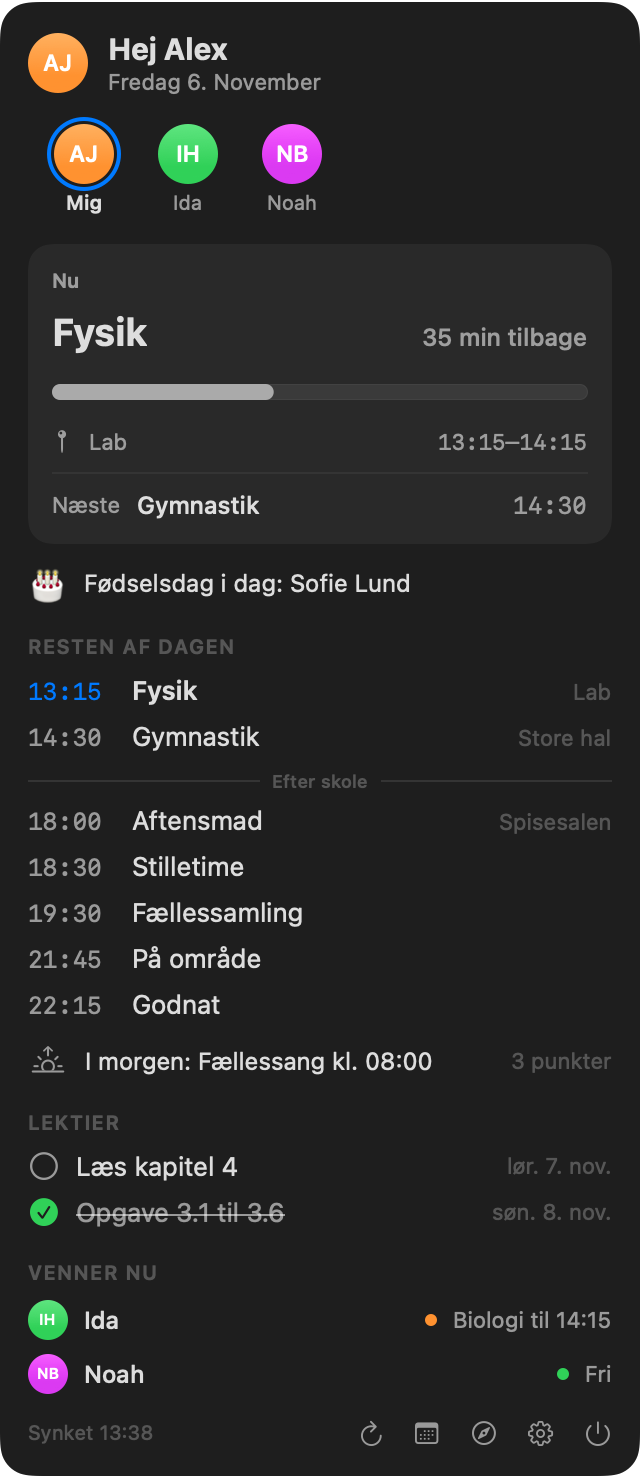
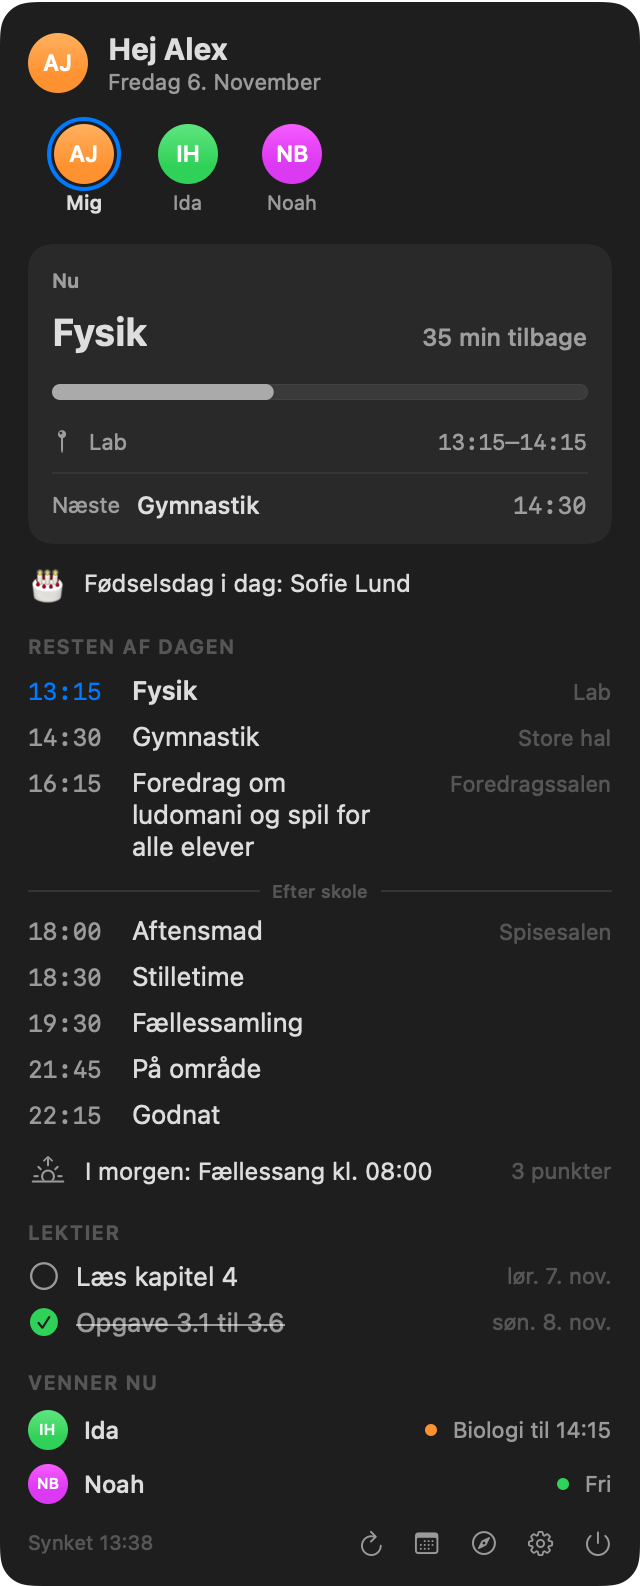
Version 1.1.1: uge-overblik som rigtigt skema efter klokken, og lange navne kan læses

diff --git a/Sources/Features.swift b/Sources/Features.swift
@@ -197,65 +197,184 @@ struct WeekView: View {
             }
             .padding(.horizontal, 20).padding(.top, 34).padding(.bottom, 14)
 
-            HStack(alignment: .top, spacing: 10) {
-                ForEach(shown, id: \.self) { d in
-                    DayColumn(day: d, items: dayItems(d),
-                              homework: homework.filter { DateUtil.cal.isDate($0.due, inSameDayAs: d) })
-                }
-            }
-            .padding(.horizontal, 16).padding(.bottom, 16)
+            WeekGrid(days: shown, items: dayItems,
+                     homework: { d in homework.filter { DateUtil.cal.isDate($0.due, inSameDayAs: d) } })
+                .padding(.horizontal, 12).padding(.bottom, 12)
         }
-        .frame(minWidth: 860, maxWidth: .infinity, minHeight: 520, maxHeight: .infinity, alignment: .top)
+        .frame(minWidth: 860, maxWidth: .infinity, minHeight: 560, maxHeight: .infinity, alignment: .top)
         .background(Color(nsColor: .windowBackgroundColor).ignoresSafeArea())
     }
 }
 
-struct DayColumn: View {
-    let day: Date
-    let items: [ViggoEvent]
-    let homework: [Homework]
+/// Hours down the side, a column per day, and each lesson as tall as it lasts, like on Viggo.
+struct WeekGrid: View {
+    let days: [Date]
+    let items: (Date) -> [ViggoEvent]
+    let homework: (Date) -> [Homework]
+    var hourHeight: CGFloat = 52
+    private let gutter: CGFloat = 44
+
+    private var hours: ClosedRange<Int> {
+        let all = days.flatMap(items)
+        let first = all.map { DateUtil.cal.component(.hour, from: $0.start) }.min() ?? 8
+        let last = all.map { e -> Int in
+            let sameDay = DateUtil.cal.isDate(e.end, inSameDayAs: e.start)
+            let h = DateUtil.cal.component(.hour, from: e.end), m = DateUtil.cal.component(.minute, from: e.end)
+            return sameDay ? h + (m > 0 ? 1 : 0) : 24
+        }.max() ?? 16
+        return min(first, 8)...max(min(last, 24), 16)
+    }
 
     var body: some View {
-        let today = DateUtil.cal.isDateInToday(day)
-        VStack(alignment: .leading, spacing: 6) {
-            HStack(alignment: .firstTextBaseline, spacing: 5) {
-                Text(DateUtil.weekdayF.string(from: day).capitalized).font(.system(size: 13, weight: .semibold))
-                Text("\(DateUtil.cal.component(.day, from: day)).").font(.system(size: 13))
-                    .foregroundStyle(today ? Color.white : .secondary)
-                    .padding(.horizontal, today ? 6 : 0).padding(.vertical, today ? 1 : 0)
-                    .background(Capsule().fill(today ? Color.accentColor : .clear))
-            }
-            .padding(.bottom, 2)
-            ForEach(homework) { h in
-                Label(h.title, systemImage: h.done ? "checkmark.circle.fill" : "book.closed")
-                    .font(.system(size: 11)).foregroundStyle(h.done ? .secondary : .primary).lineLimit(2)
-            }
-            if items.isEmpty {
-                Text("Fri").font(.system(size: 12)).foregroundStyle(.tertiary)
-            }
-            ForEach(items) { e in
-                let tint = e.customColor ?? .accentColor
-                VStack(alignment: .leading, spacing: 2) {
-                    Text("\(DateUtil.hm(e.start))–\(DateUtil.hm(e.end))")
-                        .font(.system(size: 10, design: .monospaced)).foregroundStyle(.secondary)
-                    Text(e.shortTitle).font(.system(size: 12, weight: .semibold)).lineLimit(2)
-                    if !e.room.isEmpty { Text(e.room).font(.system(size: 10)).foregroundStyle(.secondary).lineLimit(1) }
+        let h = hours
+        VStack(spacing: 0) {
+            // Day names and homework
+            HStack(alignment: .top, spacing: 6) {
+                Color.clear.frame(width: gutter, height: 1)
+                ForEach(days, id: \.self) { d in
+                    let today = DateUtil.cal.isDateInToday(d)
+                    VStack(alignment: .leading, spacing: 4) {
+                        HStack(alignment: .firstTextBaseline, spacing: 5) {
+                            Text(DateUtil.weekdayF.string(from: d).capitalized).font(.system(size: 13, weight: .semibold))
+                            Text("\(DateUtil.cal.component(.day, from: d)).").font(.system(size: 13))
+                                .foregroundStyle(today ? Color.white : .secondary)
+                                .padding(.horizontal, today ? 6 : 0).padding(.vertical, today ? 1 : 0)
+                                .background(Capsule().fill(today ? Color.accentColor : .clear))
+                        }
+                        ForEach(homework(d)) { hw in
+                            Label(hw.title, systemImage: hw.done ? "checkmark.circle.fill" : "book.closed")
+                                .font(.system(size: 11)).foregroundStyle(hw.done ? .secondary : .primary).lineLimit(2)
+                        }
+                    }
+                    .frame(maxWidth: .infinity, alignment: .leading)
+                    .padding(.horizontal, 6).padding(.bottom, 6)
                 }
-                .padding(7)
-                .frame(maxWidth: .infinity, alignment: .leading)
-                .background(RoundedRectangle(cornerRadius: 8, style: .continuous).fill(tint.opacity(0.18)))
-                .overlay(alignment: .leading) {
-                    RoundedRectangle(cornerRadius: 2).fill(tint).frame(width: 3).padding(.vertical, 5)
+            }
+            Divider()
+            ScrollView(.vertical) {
+                HStack(alignment: .top, spacing: 6) {
+                    // Hour labels
+                    VStack(alignment: .trailing, spacing: 0) {
+                        ForEach(Array(h), id: \.self) { hr in
+                            Text(String(format: "%02d:00", hr)).font(.system(size: 10, design: .monospaced))
+                                .foregroundStyle(.tertiary)
+                                .frame(height: hourHeight, alignment: .top)
+                                .offset(y: -6)
+                        }
+                    }
+                    .frame(width: gutter, alignment: .trailing)
+                    ForEach(days, id: \.self) { d in
+                        DayGridColumn(day: d, items: items(d), hours: h, hourHeight: hourHeight)
+                    }
                 }
-                .opacity(e.end < Date() ? 0.5 : 1)
-                .contentShape(Rectangle())
-                .onTapGesture { NSWorkspace.shared.open(e.link) }
+                .padding(.top, 8)
             }
         }
-        .frame(maxWidth: .infinity, alignment: .topLeading)
-        .padding(10)
-        .background(RoundedRectangle(cornerRadius: 12, style: .continuous)
-            .fill(today ? Color.accentColor.opacity(0.07) : Color.primary.opacity(0.04)))
+    }
+}
+
+struct DayGridColumn: View {
+    let day: Date
+    let items: [ViggoEvent]
+    let hours: ClosedRange<Int>
+    let hourHeight: CGFloat
+
+    private var top: Date { DateUtil.cal.date(bySettingHour: hours.lowerBound, minute: 0, second: 0, of: day)! }
+    private var bottom: Date {
+        hours.upperBound >= 24 ? DateUtil.add(.day, 1, DateUtil.startOfDay(day))
+            : DateUtil.cal.date(bySettingHour: hours.upperBound, minute: 0, second: 0, of: day)!
+    }
+    private func y(_ d: Date) -> CGFloat { CGFloat(d.timeIntervalSince(top) / 3600) * hourHeight }
+
+    /// Side by side lanes for lessons that overlap.
+    private var laid: [(e: ViggoEvent, lane: Int, lanes: Int)] {
+        let sorted = items.sorted { ($0.start, $1.end) < ($1.start, $0.end) }
+        var out: [(ViggoEvent, Int, Int)] = []
+        var cluster: [(ViggoEvent, Int)] = []
+        var laneEnds: [Date] = []
+        var clusterEnd = Date.distantPast
+        func flush() {
+            let n = max(1, laneEnds.count)
+            out += cluster.map { ($0.0, $0.1, n) }
+            cluster = []; laneEnds = []
+        }
+        for e in sorted {
+            if e.start >= clusterEnd { flush(); clusterEnd = .distantPast }
+            if let free = laneEnds.firstIndex(where: { $0 <= e.start }) {
+                laneEnds[free] = e.end; cluster.append((e, free))
+            } else {
+                laneEnds.append(e.end); cluster.append((e, laneEnds.count - 1))
+            }
+            clusterEnd = max(clusterEnd, e.end)
+        }
+        flush()
+        return out.map { (e: $0.0, lane: $0.1, lanes: $0.2) }
+    }
+
+    var body: some View {
+        let height = CGFloat(hours.count - 1) * hourHeight + hourHeight
+        let today = DateUtil.cal.isDateInToday(day)
+        GeometryReader { geo in
+            ZStack(alignment: .topLeading) {
+                // Hour lines
+                ForEach(Array(hours), id: \.self) { hr in
+                    Rectangle().fill(Color.primary.opacity(0.07)).frame(height: 1)
+                        .offset(y: CGFloat(hr - hours.lowerBound) * hourHeight)
+                }
+                ForEach(laid, id: \.e.id) { item in
+                    let s = max(item.e.start, top), en = min(item.e.end, bottom)
+                    let w = (geo.size.width - CGFloat(item.lanes - 1) * 3) / CGFloat(item.lanes)
+                    GridBlock(e: item.e, height: max(20, y(en) - y(s) - 2))
+                        .frame(width: w)
+                        .offset(x: CGFloat(item.lane) * (w + 3), y: y(s) + 1)
+                }
+                // Now line
+                if today, Date() > top, Date() < bottom {
+                    HStack(spacing: 0) {
+                        Circle().fill(.red).frame(width: 7, height: 7)
+                        Rectangle().fill(.red).frame(height: 1.5)
+                    }
+                    .offset(x: -3, y: y(Date()) - 3.5)
+                }
+            }
+        }
+        .frame(height: height)
+        .background(RoundedRectangle(cornerRadius: 8, style: .continuous)
+            .fill(today ? Color.accentColor.opacity(0.06) : Color.primary.opacity(0.025)))
+        .frame(maxWidth: .infinity)
+    }
+}
+
+struct GridBlock: View {
+    let e: ViggoEvent
+    let height: CGFloat
+
+    var body: some View {
+        let tint = e.customColor ?? (e.kind == .lesson ? Color.accentColor : .purple)
+        let roomy = height >= 44
+        VStack(alignment: .leading, spacing: 1) {
+            Text(e.shortTitle).font(.system(size: 11, weight: .semibold))
+                .lineLimit(height >= 70 ? 3 : (roomy ? 2 : 1))
+            if roomy {
+                Text("\(DateUtil.hm(e.start))–\(DateUtil.hm(e.end))").font(.system(size: 9.5, design: .monospaced))
+                    .foregroundStyle(.secondary).lineLimit(1)
+            }
+            if height >= 58, !e.room.isEmpty {
+                Text(e.room).font(.system(size: 9.5)).foregroundStyle(.secondary).lineLimit(1)
+            }
+        }
+        .padding(.leading, 7).padding(.trailing, 4).padding(.vertical, roomy ? 4 : 2)
+        .frame(maxWidth: .infinity, maxHeight: .infinity, alignment: .topLeading)
+        .frame(height: height)
+        .background(RoundedRectangle(cornerRadius: 6, style: .continuous).fill(tint.opacity(0.22)))
+        .overlay(alignment: .leading) {
+            RoundedRectangle(cornerRadius: 2).fill(tint).frame(width: 3).padding(.vertical, 3)
+        }
+        .clipShape(RoundedRectangle(cornerRadius: 6, style: .continuous))
+        .opacity(e.end < Date() ? 0.55 : 1)
+        .help("\(e.title)\n\(DateUtil.hm(e.start))–\(DateUtil.hm(e.end))\(e.room.isEmpty ? "" : " · \(e.room)")")
+        .contentShape(Rectangle())
+        .onTapGesture { NSWorkspace.shared.open(e.link) }
     }
 }
 

diff --git a/Sources/Views.swift b/Sources/Views.swift
@@ -94,10 +94,12 @@ struct TimelineRow: View {
                 }
                 Text(e.shortTitle)
                     .font(Sz.f(13, current ? .semibold : .regular))
-                    .lineLimit(1)
+                    .lineLimit(3)
+                    .fixedSize(horizontal: false, vertical: true)
+                    .layoutPriority(1)
                 Spacer(minLength: 6)
                 if !e.room.isEmpty {
-                    Text(e.room).font(Sz.f(11)).foregroundStyle(.tertiary).lineLimit(1)
+                    Text(e.room).font(Sz.f(11)).foregroundStyle(.tertiary).lineLimit(1).fixedSize()
                 }
             }
             .opacity(past ? 0.35 : 1)
@@ -124,9 +126,9 @@ struct NowCard: View {
             if let c = current {
                 Text(name.map { "\($0) har nu" } ?? "Nu").font(Sz.f(10, .semibold)).foregroundStyle(.secondary)
                 HStack(alignment: .firstTextBaseline) {
-                    Text(c.shortTitle).font(Sz.f(19, .bold)).lineLimit(1)
+                    Text(c.shortTitle).font(Sz.f(19, .bold)).lineLimit(3).fixedSize(horizontal: false, vertical: true)
                     Spacer()
-                    Text("\(mins(now, c.end)) tilbage").font(Sz.f(12, .medium)).foregroundStyle(.secondary)
+                    Text("\(mins(now, c.end)) tilbage").font(Sz.f(12, .medium)).foregroundStyle(.secondary).fixedSize()
                 }
                 ProgressView(value: min(1, max(0, now.timeIntervalSince(c.start) / max(1, c.end.timeIntervalSince(c.start)))))
                     .progressViewStyle(.linear).tint(.accentColor)
@@ -138,9 +140,9 @@ struct NowCard: View {
             } else if let n = next {
                 Text(name.map { "\($0) er fri" } ?? "Fri").font(Sz.f(10, .semibold)).foregroundStyle(.secondary)
                 HStack(alignment: .firstTextBaseline) {
-                    Text(n.shortTitle).font(Sz.f(19, .bold)).lineLimit(1)
+                    Text(n.shortTitle).font(Sz.f(19, .bold)).lineLimit(3).fixedSize(horizontal: false, vertical: true)
                     Spacer()
-                    Text("om \(mins(now, n.start))").font(Sz.f(12, .medium)).foregroundStyle(.secondary)
+                    Text("om \(mins(now, n.start))").font(Sz.f(12, .medium)).foregroundStyle(.secondary).fixedSize()
                 }
                 if !n.room.isEmpty { Label(n.room, systemImage: "mappin").font(Sz.f(11)).foregroundStyle(.secondary) }
             } else {
@@ -150,7 +152,7 @@ struct NowCard: View {
                 Divider().opacity(0.5)
                 HStack {
                     Text("Næste").font(Sz.f(11)).foregroundStyle(.secondary)
-                    Text(n.shortTitle).font(Sz.f(12, .medium)).lineLimit(1)
+                    Text(n.shortTitle).font(Sz.f(12, .medium)).lineLimit(2).fixedSize(horizontal: false, vertical: true)
                     Spacer()
                     Text(DateUtil.hm(n.start)).font(Sz.mono(12)).foregroundStyle(.secondary)
                 }

diff --git a/Sources/DocRenderer.swift b/Sources/DocRenderer.swift
@@ -21,7 +21,7 @@ enum DocRenderer {
         snap(MenuView().environmentObject(state), name: "panel-friend", dir: dir, panel: true)
         state.selectedFriend = nil
 
-        snap(WeekView().environmentObject(state), name: "week", dir: dir, size: NSSize(width: 980, height: 560))
+        snap(WeekView().environmentObject(state), name: "week", dir: dir, size: NSSize(width: 1040, height: 720))
 
         Updater.shared.available = Updater.Release(
             version: "1.2.0", highlights: ["Uge-overblik med alle dine timer", "Fødselsdage i panelet", "Genvejstast til panelet"],
@@ -69,9 +69,13 @@ enum DocRenderer {
             ViggoEvent(id: 40, rawName: "Sofie Lund (06/11)", start: at(0, 0), end: at(23, 59), room: "", notes: "",
                        kind: .birthday, teachers: [], groups: []),
             ev(50, "Dansk", 8, 35, 9, 35, room: "Klasse 2", day: mon(1)), ev(51, "Matematik", 9, 55, 10, 55, room: "Klasse 3", day: mon(1)),
-            ev(52, "Engelsk", 11, 5, 12, 5, room: "Klasse 2", day: mon(1)), ev(53, "Idræt", 13, 15, 15, 0, room: "Store hal", day: mon(1)),
+            ev(52, "Engelsk", 11, 5, 12, 5, room: "Klasse 2", day: mon(1)), 
             ev(54, "Fysik", 8, 35, 9, 35, room: "Lab", day: mon(2)), ev(55, "Tysk", 9, 55, 10, 55, room: "Klasse 2", day: mon(2)),
             ev(56, "Musik", 11, 5, 12, 5, room: "Musikhuset", day: mon(2)),
+            ev(70, "Foredrag om ludomani og spil for alle elever", 16, 15, 17, 30, room: "Foredragssalen", kind: .event),
+            ev(71, "Temaeftermiddag og Galla", 13, 15, 22, 30, room: "Store hal", kind: .event, day: mon(1)),
+            ev(72, "Musiklinje", 13, 15, 14, 45, room: "Musikhuset", day: mon(2)),
+            ev(73, "Kor", 14, 0, 15, 0, room: "Musikhuset", day: mon(2)),
             ev(61, "Biologi", 8, 35, 9, 35, room: "Lab", day: mon(3)), ev(62, "Dansk", 9, 55, 10, 55, room: "Klasse 2", day: mon(3)),
             ev(63, "Medborgerskab", 11, 5, 12, 5, room: "Klasse 2", day: mon(3)),
             ev(57, "Dansk", 8, 35, 9, 35, room: "Klasse 2", day: mon(0)), ev(58, "Historie", 9, 55, 10, 55, room: "Klasse 4", day: mon(0)),

diff --git a/Sources/AppState.swift b/Sources/AppState.swift
@@ -465,17 +465,17 @@ final class AppState: ObservableObject {
         let now = tick
         let today = items(on: now).filter { $0.kind == .lesson || $0.kind == .event }
         if let cur = today.first(where: { $0.start <= now && $0.end > now }) {
-            return "\(cur.shortTitle) → \(DateUtil.hm(cur.end))"
+            return "\(cur.menuBarTitle) → \(DateUtil.hm(cur.end))"
         }
         if let next = today.first(where: { $0.start > now }) {
-            return "\(next.shortTitle) \(DateUtil.hm(next.start))"
+            return "\(next.menuBarTitle) \(DateUtil.hm(next.start))"
         }
         let evening = afterSchool(now)
         if let cur = evening.first(where: { $0.start <= now }) {
-            return "\(cur.shortTitle) → \(DateUtil.hm(cur.end))"
+            return "\(cur.menuBarTitle) → \(DateUtil.hm(cur.end))"
         }
         if let next = evening.first {
-            return "\(next.shortTitle) \(DateUtil.hm(next.start))"
+            return "\(next.menuBarTitle) \(DateUtil.hm(next.start))"
         }
         return ""
     }
@@ -690,7 +690,7 @@ final class AppState: ObservableObject {
             w.styleMask = [.titled, .closable, .resizable, .miniaturizable, .fullSizeContentView]
             w.titlebarAppearsTransparent = true
             w.isReleasedWhenClosed = false
-            w.setContentSize(NSSize(width: 980, height: 600))
+            w.setContentSize(NSSize(width: 1040, height: 760))
             w.center()
             weekWindow = w
         }

diff --git a/Sources/Models.swift b/Sources/Models.swift
@@ -38,8 +38,11 @@ struct ViggoEvent: Codable, Hashable, Identifiable {
         if l.contains("fællessamling") { return "Fællessamling" }
         if l.hasPrefix("stilletime") { return "Stilletime" }
         if l.hasPrefix("tjek af") { return "Værelsestjek" }
-        return title.count > 16 ? String(title.prefix(15)) + "…" : title
+        return title
     }
+
+    /// For the menu bar, where space is short.
+    var menuBarTitle: String { shortTitle.count > 22 ? String(shortTitle.prefix(21)) + "…" : shortTitle }
 }
 
 struct Homework: Codable, Hashable, Identifiable {

diff --git a/CHANGELOG.md b/CHANGELOG.md
@@ -1,5 +1,10 @@
 # Ændringer
 
+## 1.1.1 (2026-11-06)
+
+- **Uge-overblikket er et rigtigt skema**: timerne står efter klokken, og hver time er så høj som den varer, ligesom på Viggo. Timer der overlapper står ved siden af hinanden, og en rød streg viser hvad klokken er.
+- **Lange navne kan læses**: begivenheder med lange navne bliver ikke længere skåret af i panelet, men fortsætter på næste linje.
+
 ## 1.1.0 (2026-11-06)
 
 - **Uge-overblik** med hele ugens timer i kolonner, også for dine venner. Åbnes fra kalender-ikonet i panelet.
